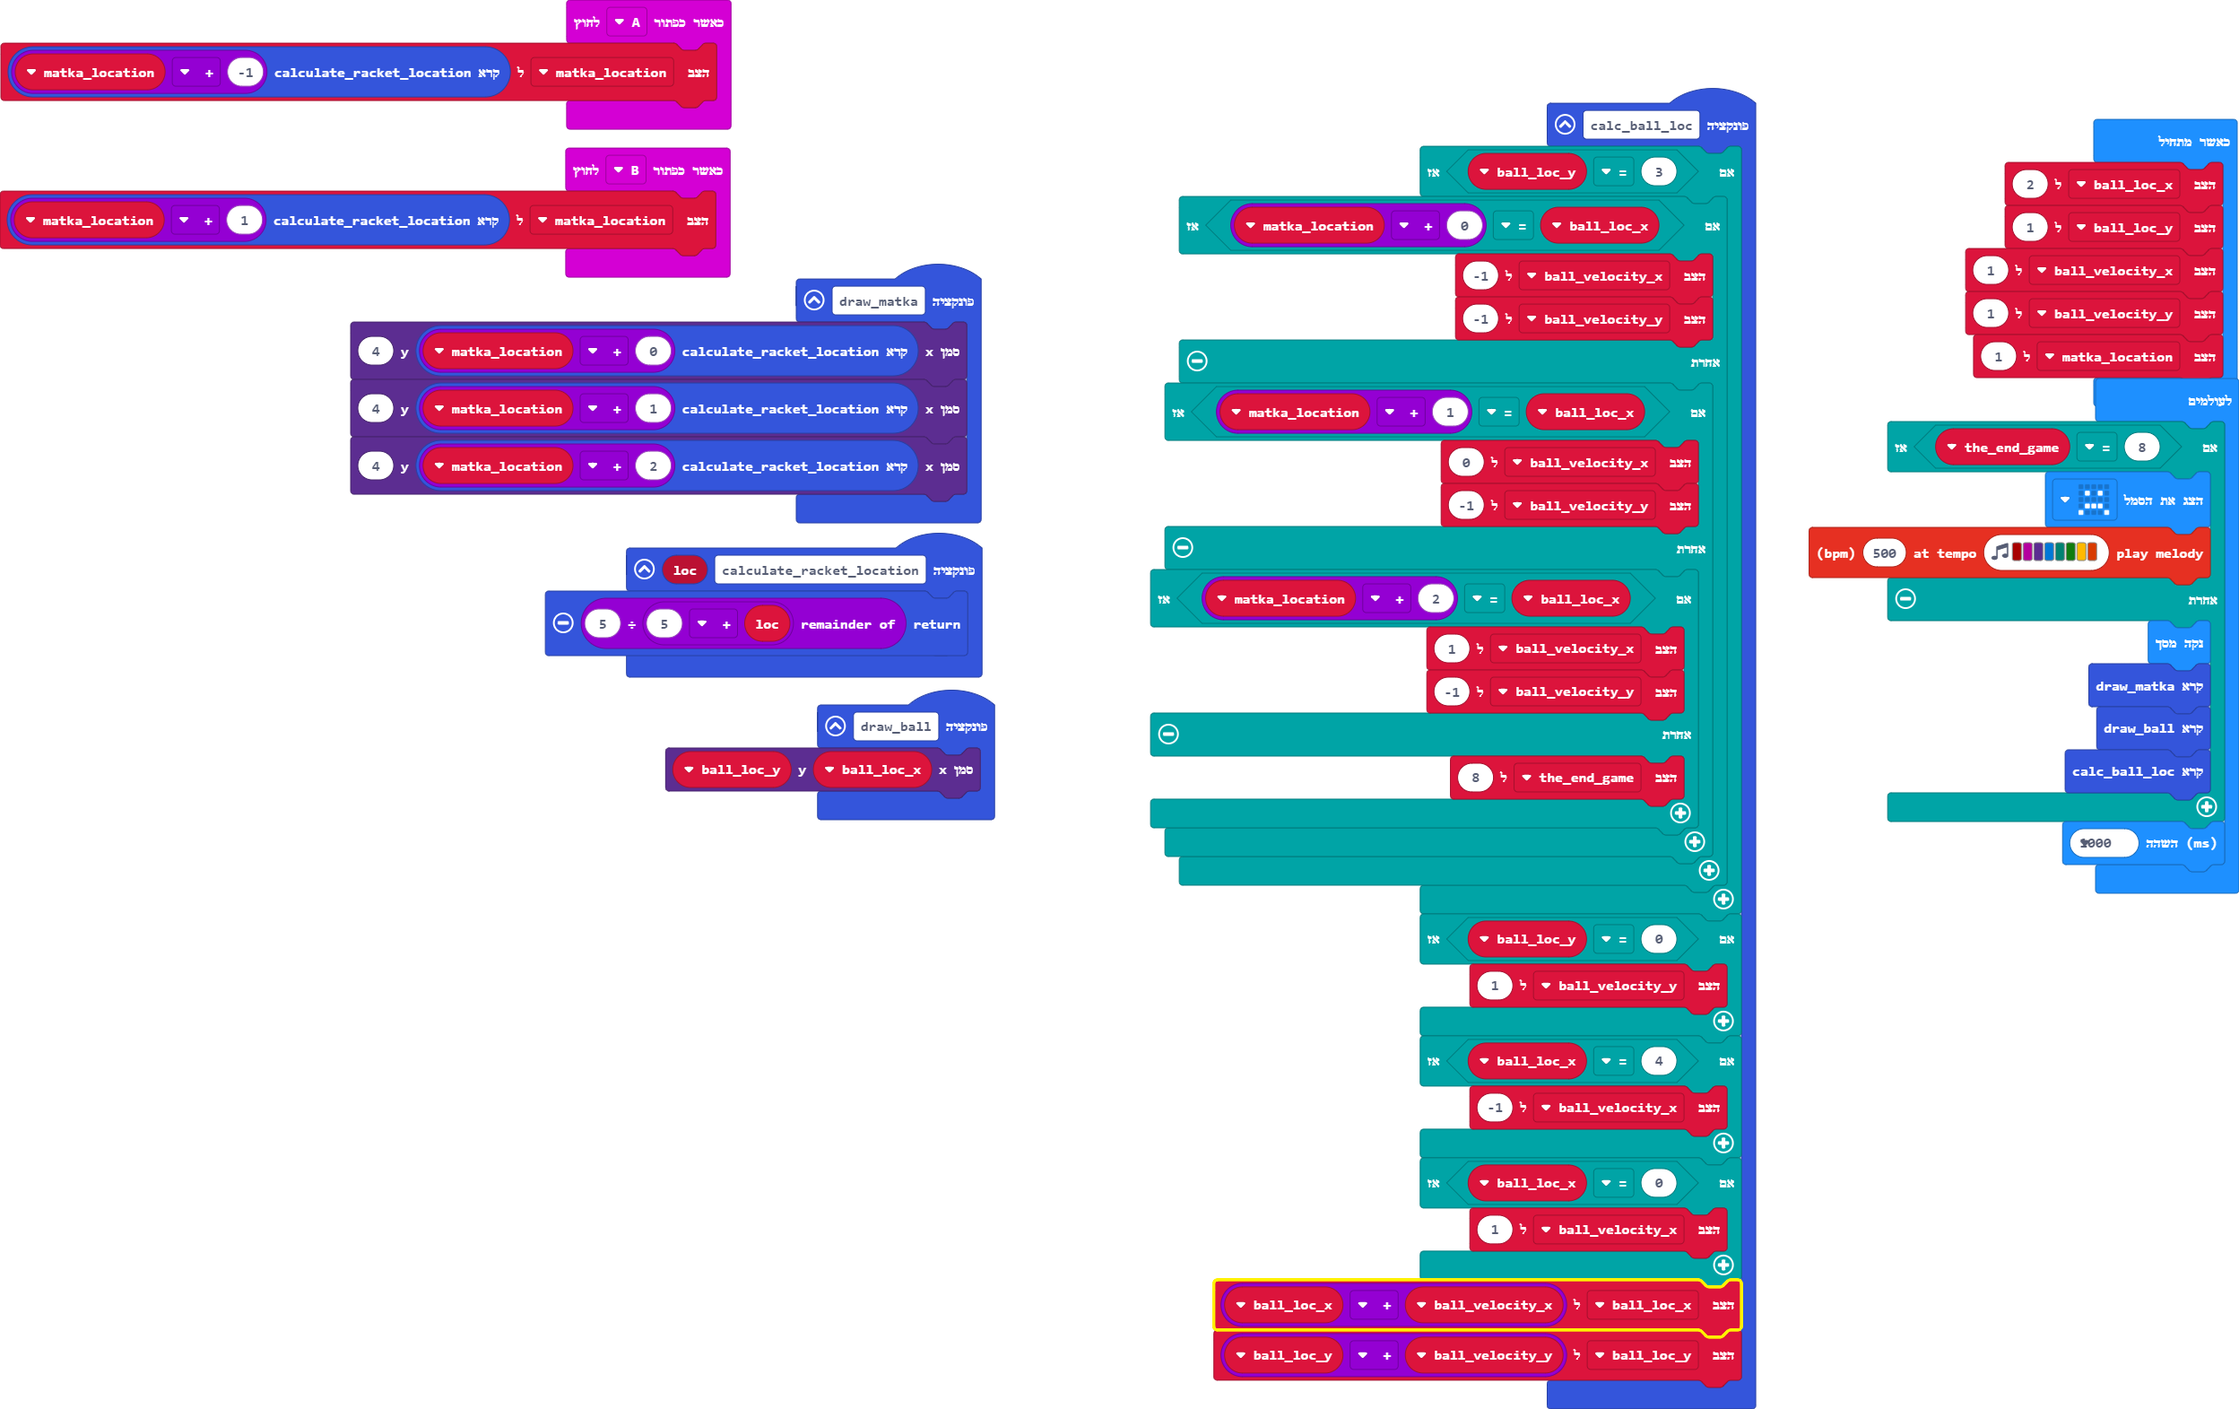
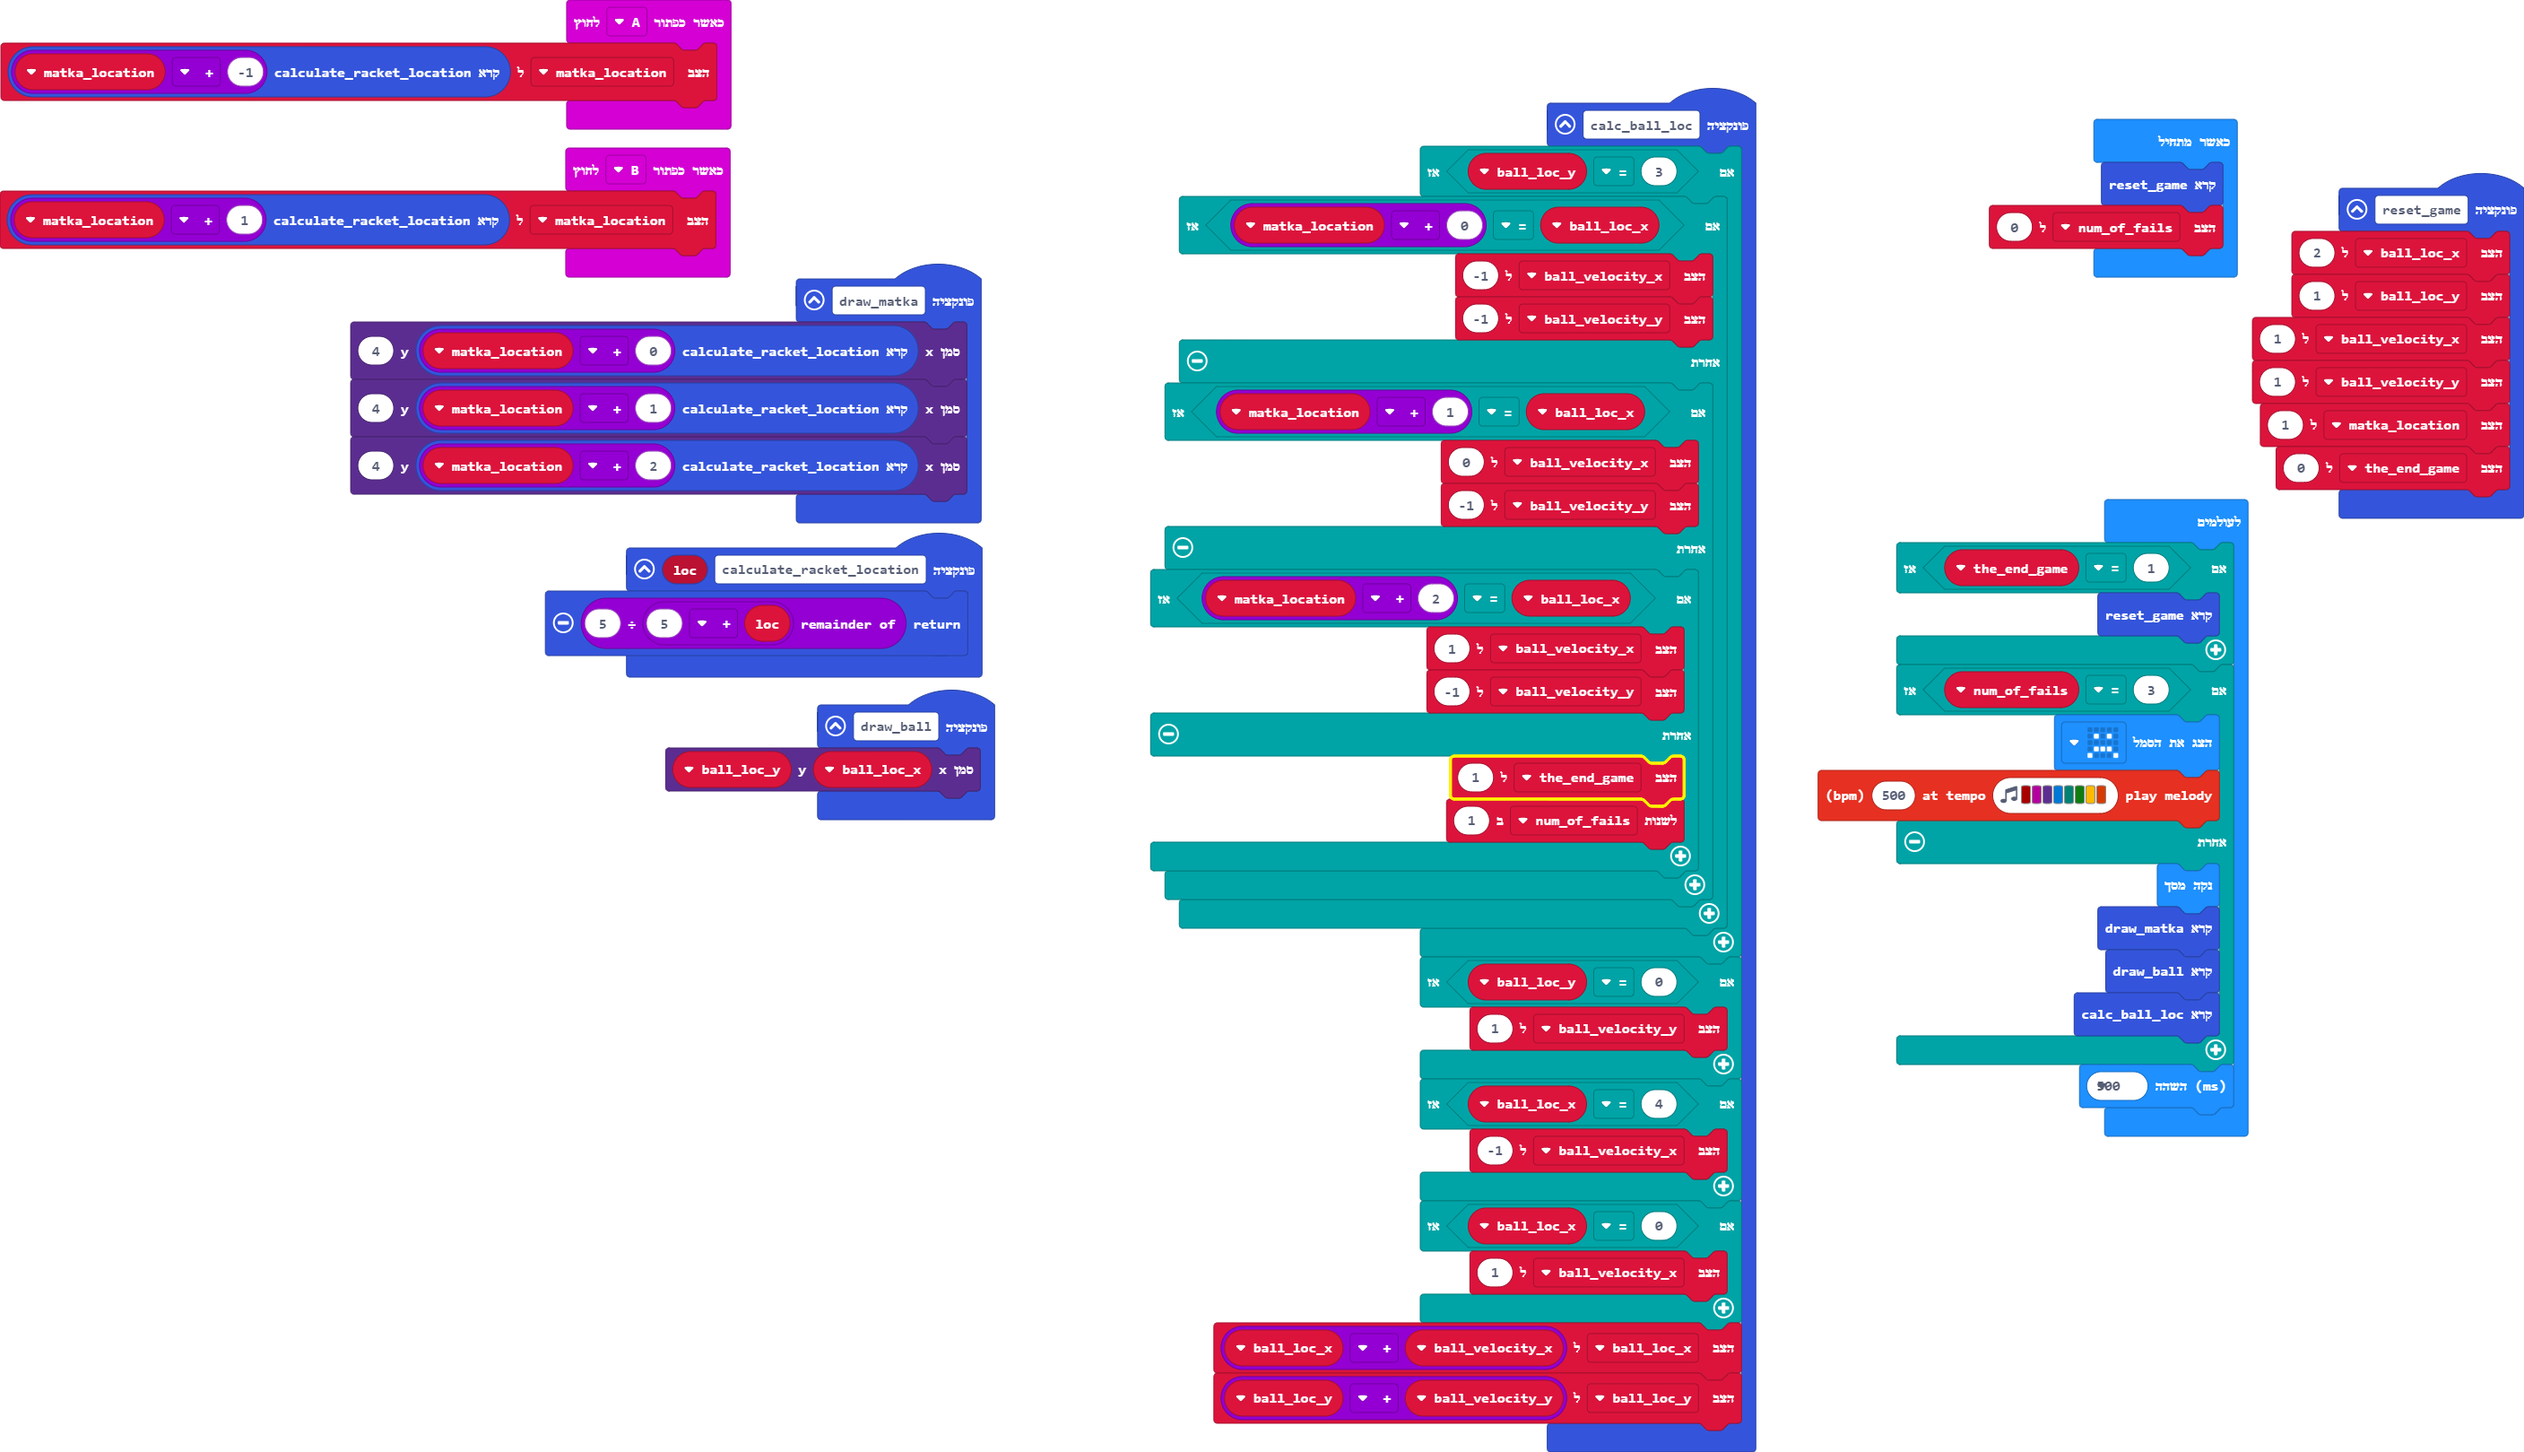
three_lives

diff --git a/main.ts b/main.ts
@@ -29,7 +29,8 @@ function calc_ball_loc () {
                     ball_velocity_x = 1
                     ball_velocity_y = -1
                 } else {
-                    the_end_game = 8
+                    the_end_game = 1
+                    num_of_fails += 1
                 }
             }
         }
@@ -46,19 +47,27 @@ function calc_ball_loc () {
     ball_loc_x = ball_velocity_x + ball_loc_x
     ball_loc_y = ball_velocity_y + ball_loc_y
 }
+function reset_game () {
+    ball_loc_x = 2
+    ball_loc_y = 1
+    ball_velocity_x = 1
+    ball_velocity_y = 1
+    matka_location = 1
+    the_end_game = 0
+}
 let the_end_game = 0
-let matka_location = 0
 let ball_velocity_y = 0
 let ball_velocity_x = 0
+let matka_location = 0
 let ball_loc_y = 0
 let ball_loc_x = 0
-ball_loc_x = 2
-ball_loc_y = 1
-ball_velocity_x = 1
-ball_velocity_y = 1
-matka_location = 1
+reset_game()
+let num_of_fails = 0
 basic.forever(function () {
-    if (8 == the_end_game) {
+    if (1 == the_end_game) {
+        reset_game()
+    }
+    if (3 == num_of_fails) {
         basic.showIcon(IconNames.Sad)
         music.playMelody("C5 C D E F G A B ", 500)
     } else {
@@ -67,5 +76,5 @@ basic.forever(function () {
         draw_ball()
         calc_ball_loc()
     }
-    basic.pause(1000)
+    basic.pause(500)
 })
